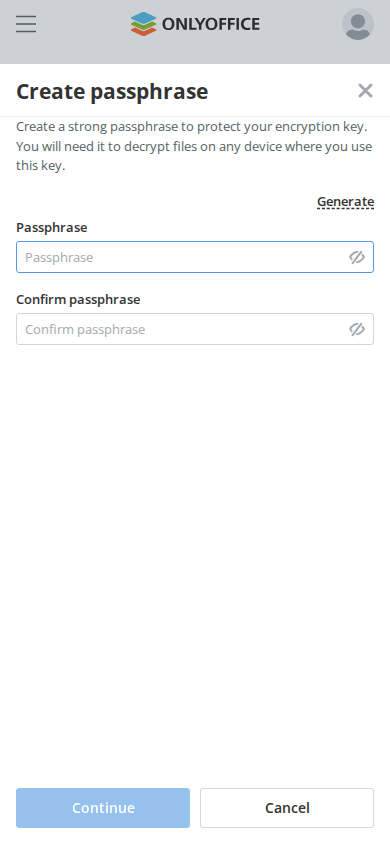
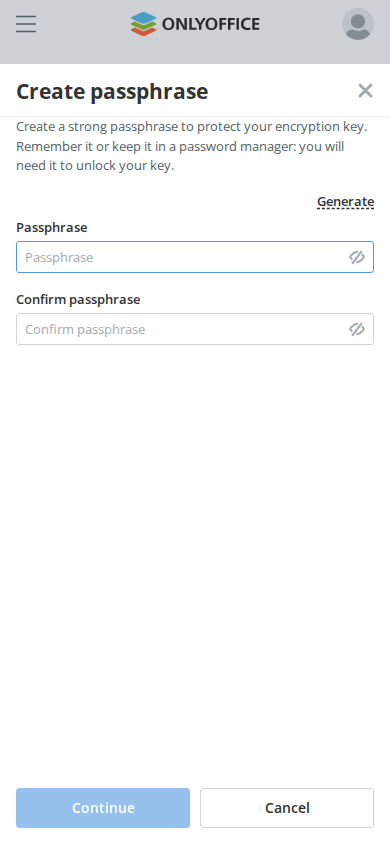
E2E: Private rooms: follow the recovery dialog, the invite result and the badges
The recovery phrase case expects the acknowledgement to be available
before a save action and still unticked after one. The invitation
cases find an invitee left out before the grant among the not invited
and expect no toast that names him. Three screenshots of the keys
management dialogs are updated in Docker for the new hint, the Create
key button and the readable badges behind the dialogs.

OpenSpec: private-rooms-design-review-quick-fixes 7.1

Changed region(s): [[0.0308, 0.154, 0.9538, 0.2156]]

diff --git a/packages/client/__tests__/private-room-invite.spec.ts b/packages/client/__tests__/private-room-invite.spec.ts
@@ -503,7 +503,7 @@ test.describe("Private room — invite entry point", () => {
     await expect(page.getByTestId("invite_panel_result_granted")).toContainText(
       CAROL.displayName,
     );
-    await expect(page.getByTestId("invite_panel_result_skipped")).toContainText(
+    await expect(page.getByTestId("invite_panel_result_refused")).toContainText(
       DAN.displayName,
     );
     await test.step("Re-encryption completes", async () => {
@@ -511,9 +511,11 @@ test.describe("Private room — invite entry point", () => {
         // The upload of the file is still listed, so the indicator counts both.
         page.getByRole("progressbar", { name: "Processes: 2" }),
       ).toBeVisible();
+    });
+    await test.step("Reason shown once", async () => {
       await expect(
         page.getByRole("alert").filter({ hasText: DAN.displayName }),
-      ).toHaveCount(1);
+      ).toHaveCount(0);
     });
     await test.step("Result shown", async () => {
       const result = page.getByRole("region", { name: "Invitation results" });
@@ -623,12 +625,12 @@ test.describe("Private room — invite entry point", () => {
       CAROL.displayName,
     );
     // The invitees are verified before the security update: Dan has no key,
-    // so he is left out of it and named among the skipped, not refused by the
-    // server.
-    await expect(page.getByTestId("invite_panel_result_skipped")).toContainText(
+    // so he is left out of it and named as not invited, with the sentence a
+    // refusal of the server would get.
+    await expect(page.getByTestId("invite_panel_result_refused")).toContainText(
       DAN.displayName,
     );
-    await expect(page.getByTestId("invite_panel_result_refused")).toHaveCount(0);
+    await expect(page.getByTestId("invite_panel_result_skipped")).toHaveCount(0);
     const storedFile = filesHandle.current!.getFiles()[0];
     expect(storedFile.fileKeys.map((k) => String(k.userId)).sort()).toEqual(
       [CAROL.id, TEST_USER_ID].sort(),

diff --git a/packages/client/__tests__/keys-management.spec.ts b/packages/client/__tests__/keys-management.spec.ts
@@ -125,14 +125,16 @@ test.describe("Profile > Keys Management", () => {
     const words = (phraseText ?? "").trim().split(/\s+/);
     expect(words).toHaveLength(24);
 
-    // The acknowledge checkbox unlocks only after the phrase is saved
-    // (printed, downloaded, or copied).
-    await expect(acknowledge).toBeDisabled();
+    // Words written down by hand: the acknowledgement does not wait for a
+    // save action, and a save action does not give it.
+    await expect(acknowledge).toBeEnabled();
     const downloadPromise = page.waitForEvent("download");
     await recoveryDialog
       .getByRole("button", { name: "Download", exact: true })
       .click();
     await downloadPromise;
+    await expect(acknowledge).not.toBeChecked();
+    await expect(continueBtn).toBeDisabled();
 
     await acknowledge.check();
     await expect(continueBtn).toBeEnabled();

diff --git a/openspec/changes/private-rooms-design-review-quick-fixes/tasks.md b/openspec/changes/private-rooms-design-review-quick-fixes/tasks.md
@@ -48,7 +48,8 @@ One task is one commit with its tick (the "Commits" paragraph of `openspec/confi
 
 ## 7. E2E
 
-- [ ] 7.1 Client: update the E2E specs and fixtures for the new shapes (the acknowledgement no longer disabled before a save action in `keys-management.spec.ts`, the invite panel staying on its form in the private-room specs) and run the private-room, encrypted-file, key-flow and keys-management specs in Docker `tests-dev`. Verify: no failure beyond the ones known before this change; every screenshot that changes (passphrase creation, unlock prompt, recovery phrase, keys management badges, empty private room) is updated only through the Docker update script and named here
+- [x] 7.1 Client: update the E2E specs and fixtures for the new shapes (the acknowledgement no longer disabled before a save action in `keys-management.spec.ts`, the invite panel staying on its form in the private-room specs) and run the private-room, encrypted-file, key-flow and keys-management specs in Docker `tests-dev`. Verify: no failure beyond the ones known before this change; every screenshot that changes (passphrase creation, unlock prompt, recovery phrase, keys management badges, empty private room) is updated only through the Docker update script and named here
+  - 2026-11-13: Docker `tests-dev`, `WORKERS=3`, the private-room, encrypted-file, key-flow and keys-management specs. First run: 172 passed, 4 failed. One was real: "Retry succeeds" of `private-room-members.spec.ts` waits for the alert about files left out, which 5.2 had silenced with every other toast of the re-wrap; that toast is how the open change `private-rooms-members-accessibility` announces the end of the re-encryption. Fixed in its own commit (design decision 11 reworded): only the notices that name the invitees left out are held back while the panel is open. The other three were screenshots. Second run after the fix: 175 passed, 1 failed (the delete-warning screenshot); after its update the case passes. Spec changes: `keys-management.spec.ts` expects the acknowledgement enabled before a save action and still unticked after the download; `private-room-invite.spec.ts` finds the invitee left out before the grant in the not-invited group of the result and expects no alert that names him. Screenshots updated through `--update-snapshots=changed` in Docker, each looked at: `desktop/keys-management/passphrase-create.png` and `mobile/keys-management/passphrase-create.png` (new hint text, the Create key button and the dark text of the No key badge behind the dialog), `desktop/keys-management/delete-key-warning.png` (the dark text of the Active badge behind the dialog, nothing else). No screenshot shows the unlock prompt, the recovery phrase or an empty private room. The SDK E2E suite was not run: its private-room spec is unchanged, and the SDK panel is covered by the unit tests of 5.3 only.
 
 ## 8. Gate
 
